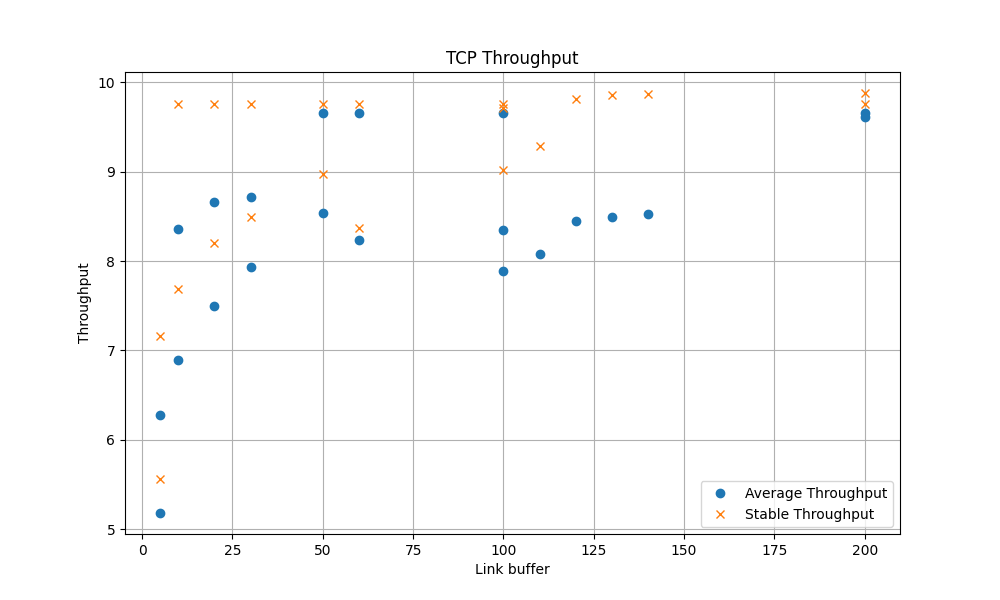
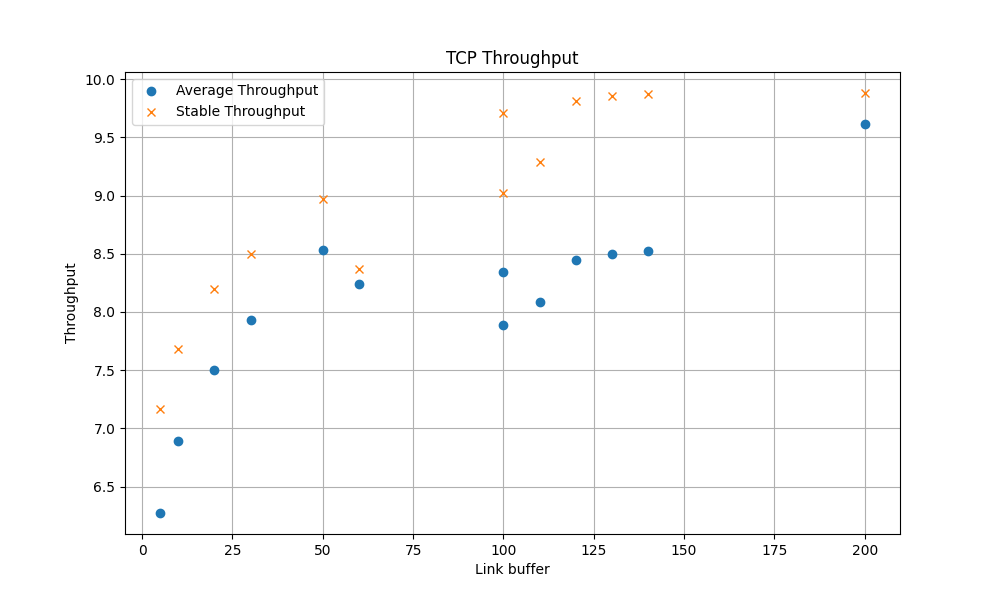
change code to make better graph + update graph

diff --git a/extract_data.py b/extract_data.py
@@ -206,7 +206,9 @@ def make_graph_for_t3(data_generator):
 	stable_throughput1 = []
 	stable_throughput2 = []
 	stable_throughput3 = []
-	for data in data_generator():
+	gen = data_generator()
+	for i, data in enumerate(gen):
+		if i == 0: continue
 		tcp_window.append(data['Link delay'])
 		avg_throughput1.append(data['TCP1 Average Throughput'])
 		avg_throughput2.append(data['TCP2 Average Throughput'])
@@ -231,7 +233,7 @@ def make_graph_for_t3(data_generator):
 
 def main():
 	f1 = r"/mnt/c/Users/Chris/Downloads/lab1tcp/EINTE/task1.log"
-	f2 = r"/mnt/c/Users/Chris/Downloads/lab1tcp/EINTE/task2.log"
+	f2 = r"task2_5000.log"
 	f3 = r"/mnt/c/Users/Chris/Downloads/lab1tcp/EINTE/task3a.log"
 	stream = stream_file_lines(f1)
 	filtered = filter(line_is_relevant, stream)
